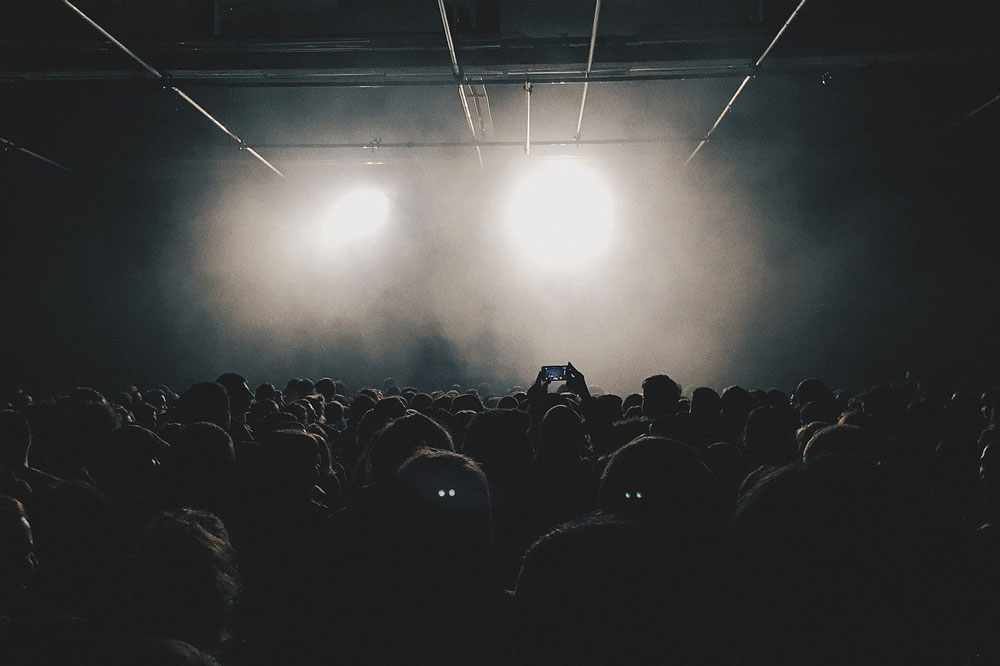
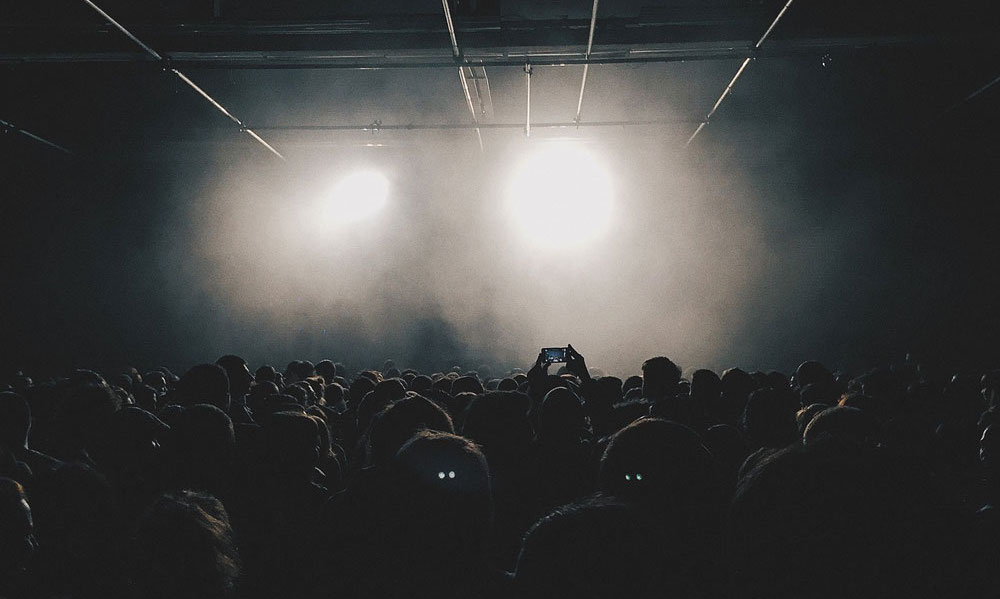
Styling first draft complete.

diff --git a/client/views/home.html b/client/views/home.html
@@ -2,90 +2,104 @@
 
   <!-- ZIP CODE ENTRY -->
   <!-- display if no zip code found -->
-  <div ng-if="!currentUser.zip">
+  <div ng-if="!currentUser.zip" class="zip-section">
 
-    <h3>Almost there!</h3>
 
-    <form name="form" class="form-horizontal">
+    <div class="row">
 
-      <div class="form-group">
 
-        <div class="col-sm-6">
-          <p>
-            Great, you've logged in to your Spotify account and we've grabbed your favorite artists. Now we just need to get your zip code and we can check for local shows!
-          </p>
-        </div>
-
-        <div class="col-sm-4 col-sm-offset-2">
-          <label for="zip-form" class="sr-only">Enter zip code</label>
-          <input ng-model="zip" type="text" class="form-control" name="zip" id="zip-form" placeholder="Enter zip code" ng-pattern="/(\d{5}([-]\d{4})?)/" required="">
-          <div class="zip-validation-error" ng-show="form.zip.$dirty && form.zip.$invalid">
-            <span>Valid zip code required</span>
-          </div>
-          <button ng-click="addZip(currentUser._id, zip)" type="submit" class="btn btn-primary zip-btn">Check for shows!
-          </button>
-        </div>
-
+      <div class="col-sm-6">
+        <img class="img-responsive img-rounded" src="img/crowd-purple-web.jpg">
       </div>
 
-    </form>
+      <form name="form" class="col-sm-5 col-sm-offset-1">
 
-    <div>
-      <h3>Your top 20 artists:</h3>
-      <ul class="list-inline">
-        <li ng-repeat="artist in currentUser.topArtists">
-          {{ artist }}
-        </li>
-      </ul>
+        <h2>Almost there!</h2>
+
+        <div class="form-group">
+
+          <div>
+            <p>
+              Great, you've logged in to your Spotify account and we've grabbed your favorite artists. Now we just need to get your zip code and we can check for local shows!
+            </p>
+          </div>
+
+          <div>
+            <label for="zip-form" class="sr-only">Enter zip code</label>
+            <input ng-model="zip" type="text" class="form-control" name="zip" id="zip-form" placeholder="Enter zip code" ng-pattern="/(\d{5}([-]\d{4})?)/" required="">
+            <div class="zip-validation-error" ng-show="form.zip.$dirty && form.zip.$invalid">
+              <span>Valid zip code required</span>
+            </div>
+            <button ng-click="addZip(currentUser._id, zip)" type="submit" class="btn btn-primary zip-btn">Check for shows!
+              </button>
+          </div>
+
+        </div>
+      </form>
+
+
     </div>
+
+    <div class="zip-top-20 row text-center">
+      <div class="col-sm-10 col-sm-offset-1">
+        <h3>Your top 20 Spotify artists</h3>
+        <ul class="list-inline">
+          <li ng-repeat="artist in currentUser.topArtists">
+            {{ artist }}
+          </li>
+        </ul>
+      </div>
+    </div>
+
+
 
   </div>
   <!-- end ZIP CODE ENTRY -->
 
   <!-- MAIN SECTION -->
-  <!-- display zip code found -->
-  <div ng-if="currentUser.zip" class="row">
+  <!-- display if zip code found -->
+  <div ng-if="currentUser.zip" class="select-section">
 
-    <div class="col-md-3">
-      <h3>Profile</h3>
-      <hr>
-      <h4 class="profile-name">{{ currentUser.name }}
-        <small> {{ currentUser.spotifyId }}</small>
-      </h4>
-      <h4>Top Artists</h4>
-      <ul class="list-unstyled top-artists-list">
-        <li ng-repeat="artist in currentUser.topArtists">
-          <button class="btn btn-default" ng-click="getLocalConcerts(artist, currentUser.zip)">{{ artist }}</button>
-        </li>
-      </ul>
-      <h4>Custom</h4>
-      <form name="customArtistForm">
+    <div class="row">
 
-        <div class="form-group">
+      <div class="col-sm-5">
+        <h2 class="profile-name">{{ currentUser.name }}
+          <small> {{ currentUser.spotifyId }}</small>
+        </h2>
+        <hr>
+        <p>
+          Awesome! You are logged into Spotify and we have your zip code and top 20 Spotify artists.
+        </p>
+        <p>
+          Choose an artist from the dropdown menu below or do a custom search.
+        </p>
+        <h4>Top Spotify artists</h4>
+        <select ng-model="artistToBeSearched" ng-change="getLocalConcerts(artistToBeSearched, currentUser.zip)" ng-options="artist for artist in currentUser.topArtists">
+          <option value="" disabled>Select an artist</option>
+        </select>
+        <h4>Custom search</h4>
+        <form name="customArtistForm">
 
-            <p>
-              Enter an artist to search.
-            </p>
+          <div class="form-group">
 
             <div class="form-inline">
               <label for="custom-search" class="sr-only">Custom artist search</label>
-              <input ng-model="artistToBeSearched" type="text"
-                     class="form-control"
-                     name="customArtistName"
-                     placeholder="{{ artistJustSearched }}"
-                     id="custom-search">
-              <button ng-click="getLocalConcerts(artistToBeSearched, currentUser.zip)"
-                      type="submit"
-                      class="btn btn-primary">Search</button>
+              <input ng-model="artistToBeSearched" type="text" class="form-control" name="customArtistName" placeholder="{{ artistJustSearched || 'Enter an artist'}} " id="custom-search">
+              <button ng-click="getLocalConcerts(artistToBeSearched, currentUser.zip)" type="submit" class="btn btn-primary">Search</button>
             </div>
 
-        </div>
+          </div>
 
-      </form>
+        </form>
+      </div>
+      <div class="col-sm-7">
+        <img class="main-img img-responsive img-rounded" src="img/crowd-black-web.jpg">
+      </div>
+
     </div>
 
-    <div class="col-sm-9">
-      <h3>Local Concerts</h3>
+    <div class="local-concerts">
+      <h3>Concerts near {{ currentUser.zip }}</h3>
       <hr>
 
       <div ng-hide="localConcerts.length > 0">
@@ -98,9 +112,6 @@
       </div>
 
       <div ng-show="localConcerts.length > 0">
-        <p>
-          Here is a list of {{ artistJustSearched }} concerts within 50 miles of {{ currentUser.zip }}.
-        </p>
         <ul ng-repeat="concert in localConcerts | orderBy: 'date'" class="list-unstyled concert-list">
           <li>
             <p class="lead">
@@ -113,8 +124,6 @@
       </div>
 
     </div>
-
   </div>
   <!-- end MAIN SECTION -->
-
 </div>

diff --git a/client/css/style.css b/client/css/style.css
@@ -1,5 +1,4 @@
 /* body padding to compensate for sticky nav */
-
 body {
   padding-top: 60px;
 }
@@ -70,10 +69,6 @@ body {
   background-color: #e5ebf2;
 }
 
-img {
-  border-radius: 5px;
-}
-
 .shiny-btn-section {
   border-radius: 5px;
   padding: 20px 0px;
@@ -83,4 +78,54 @@ img {
 
 .btn {
   transition: all 0.3s ease 0s;
+}
+
+
+
+/* zip section */
+
+.zip-section img {
+  margin-top: 20px;
+}
+
+.zip-section h2 {
+  margin-top: 30px;
+  margin-bottom: 20px;
+}
+
+.zip-section p {
+  margin-bottom: 20px;
+}
+
+.zip-top-20 {
+  margin-top: 30px;
+  padding: 15px 0;
+  border-radius: 6px;
+  background-color: #222222;
+  color: #A9C8E9
+}
+
+.zip-top-20 h3 {
+  color: #fffffb
+}
+
+.zip-top-20 ul {
+  margin: 20px 0;
+}
+
+
+
+/* select section */
+
+.select-section h4 {
+  margin-top: 20px;
+  margin-bottom: 15px;
+}
+
+.local-concerts {
+  margin-top: 30px;
+}
+
+.main-img {
+  margin-top: 25px;
 }

diff --git a/client/views/login.html b/client/views/login.html
@@ -1,7 +1,7 @@
 <div class="container">
 
   <div class="jumbotron">
-    <img class="img-responsive" src="img/crowd-blue-web.jpg">
+    <img class="img-responsive img-rounded" src="img/crowd-blue-web.jpg">
     <h1>Welcome to liveTracker!</h1>
     <p>
       Find local shows by your top 20 Spotify artists.
